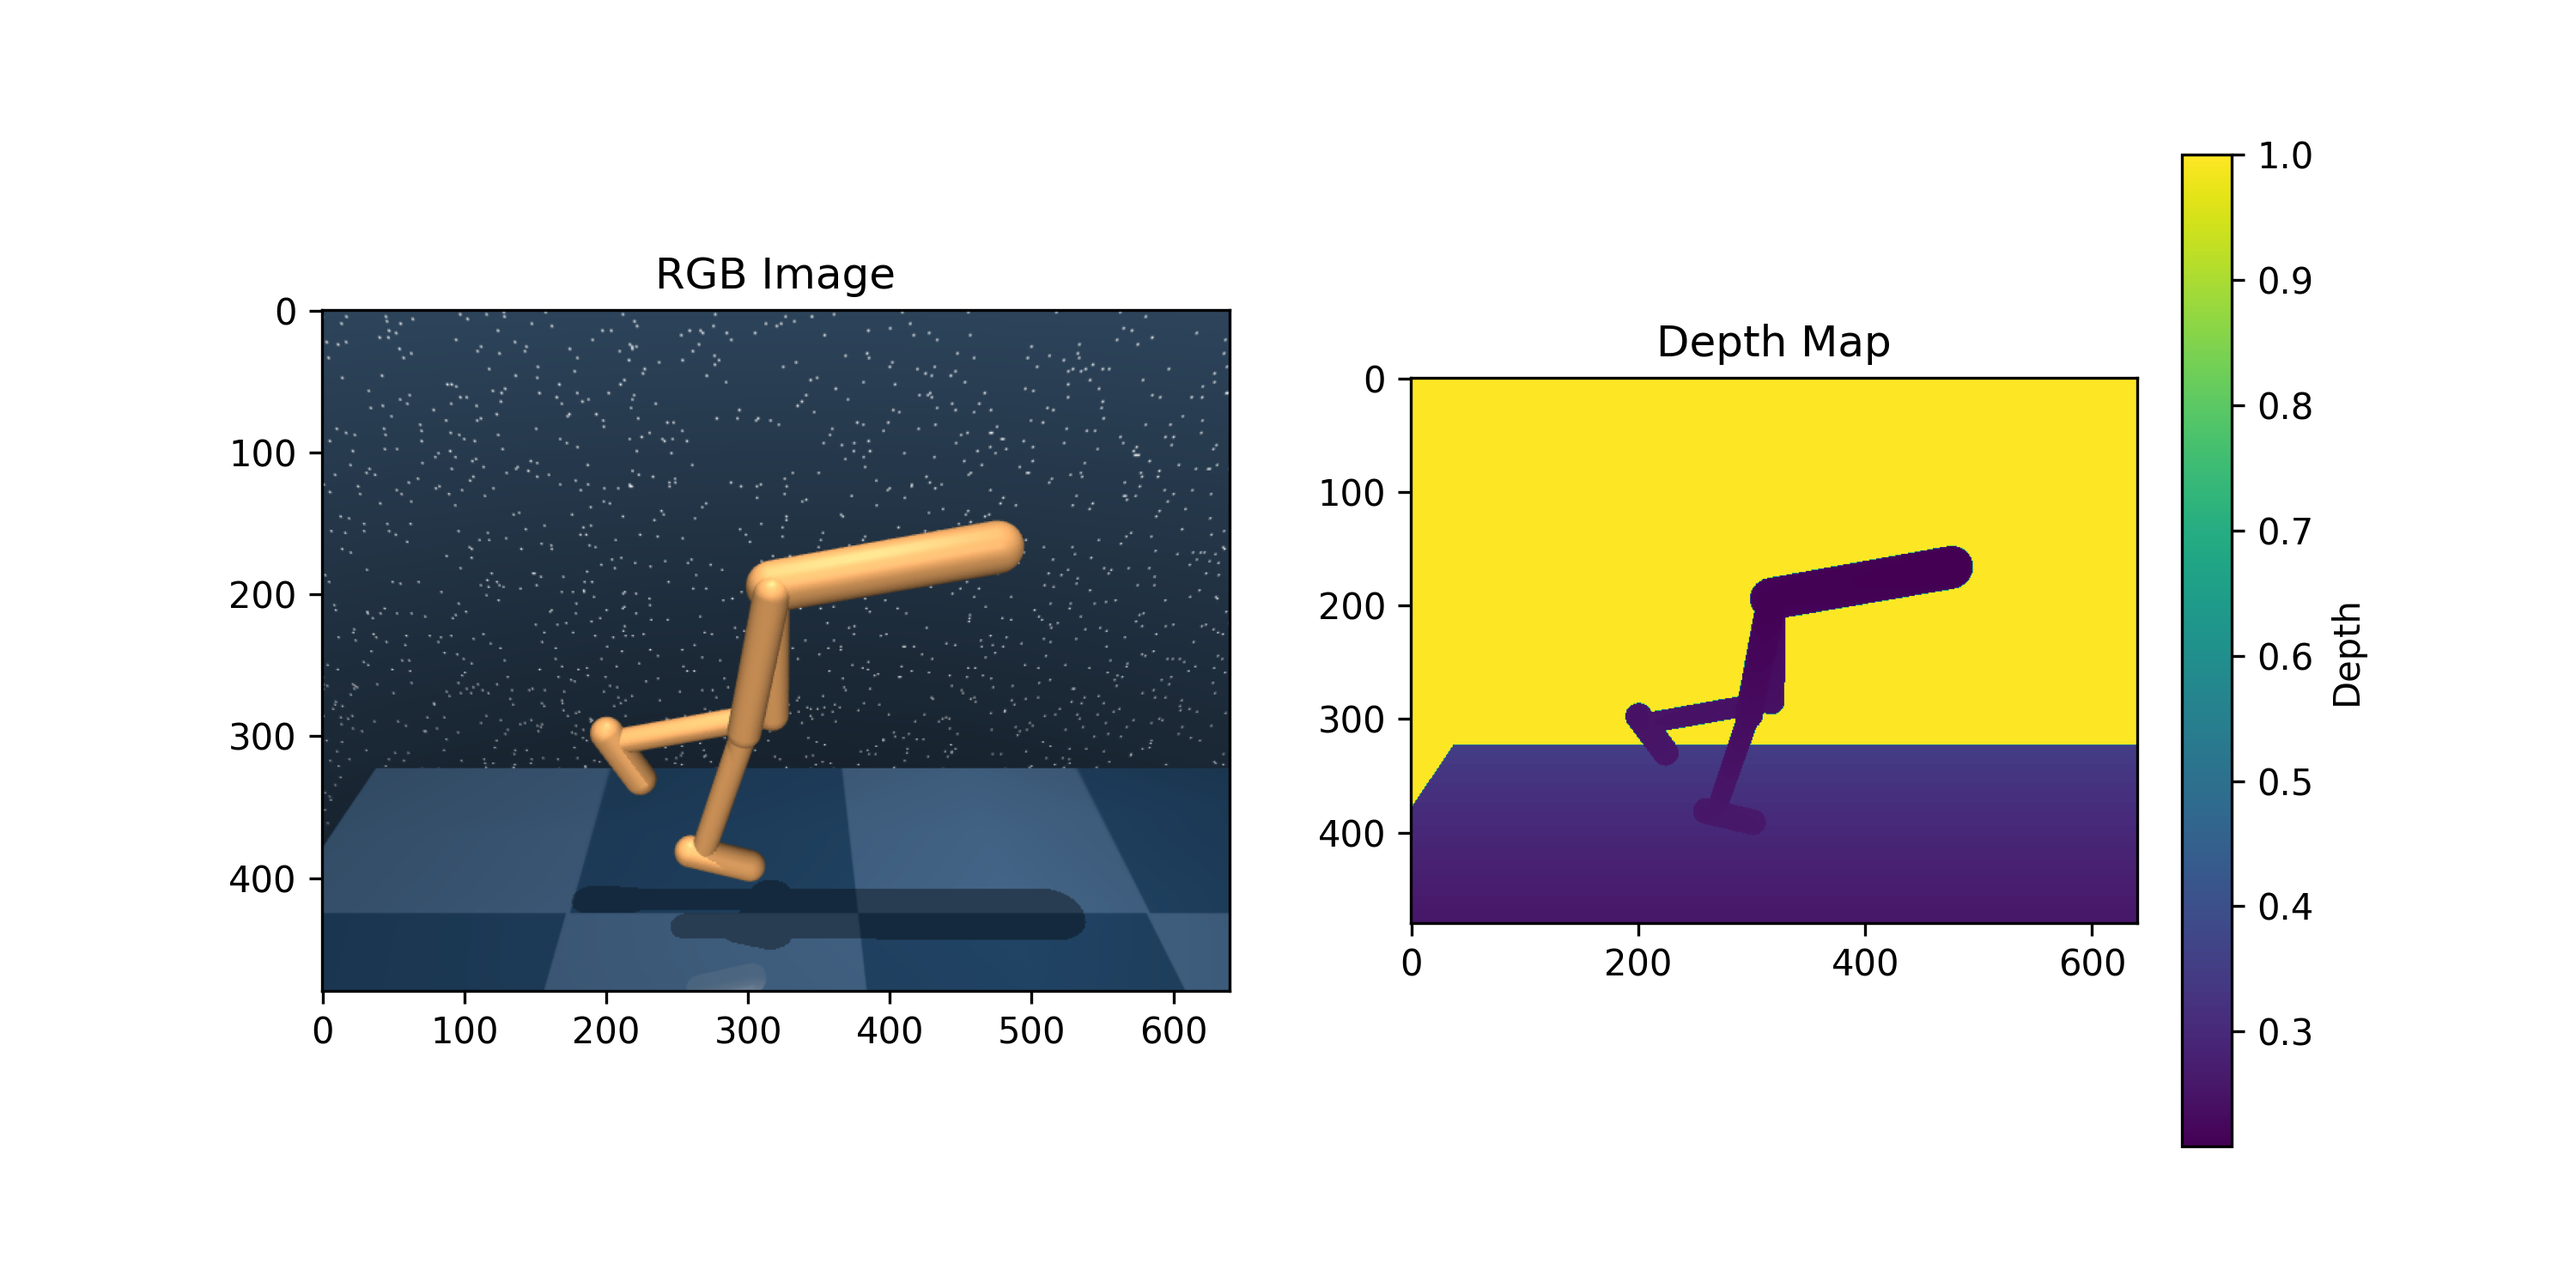
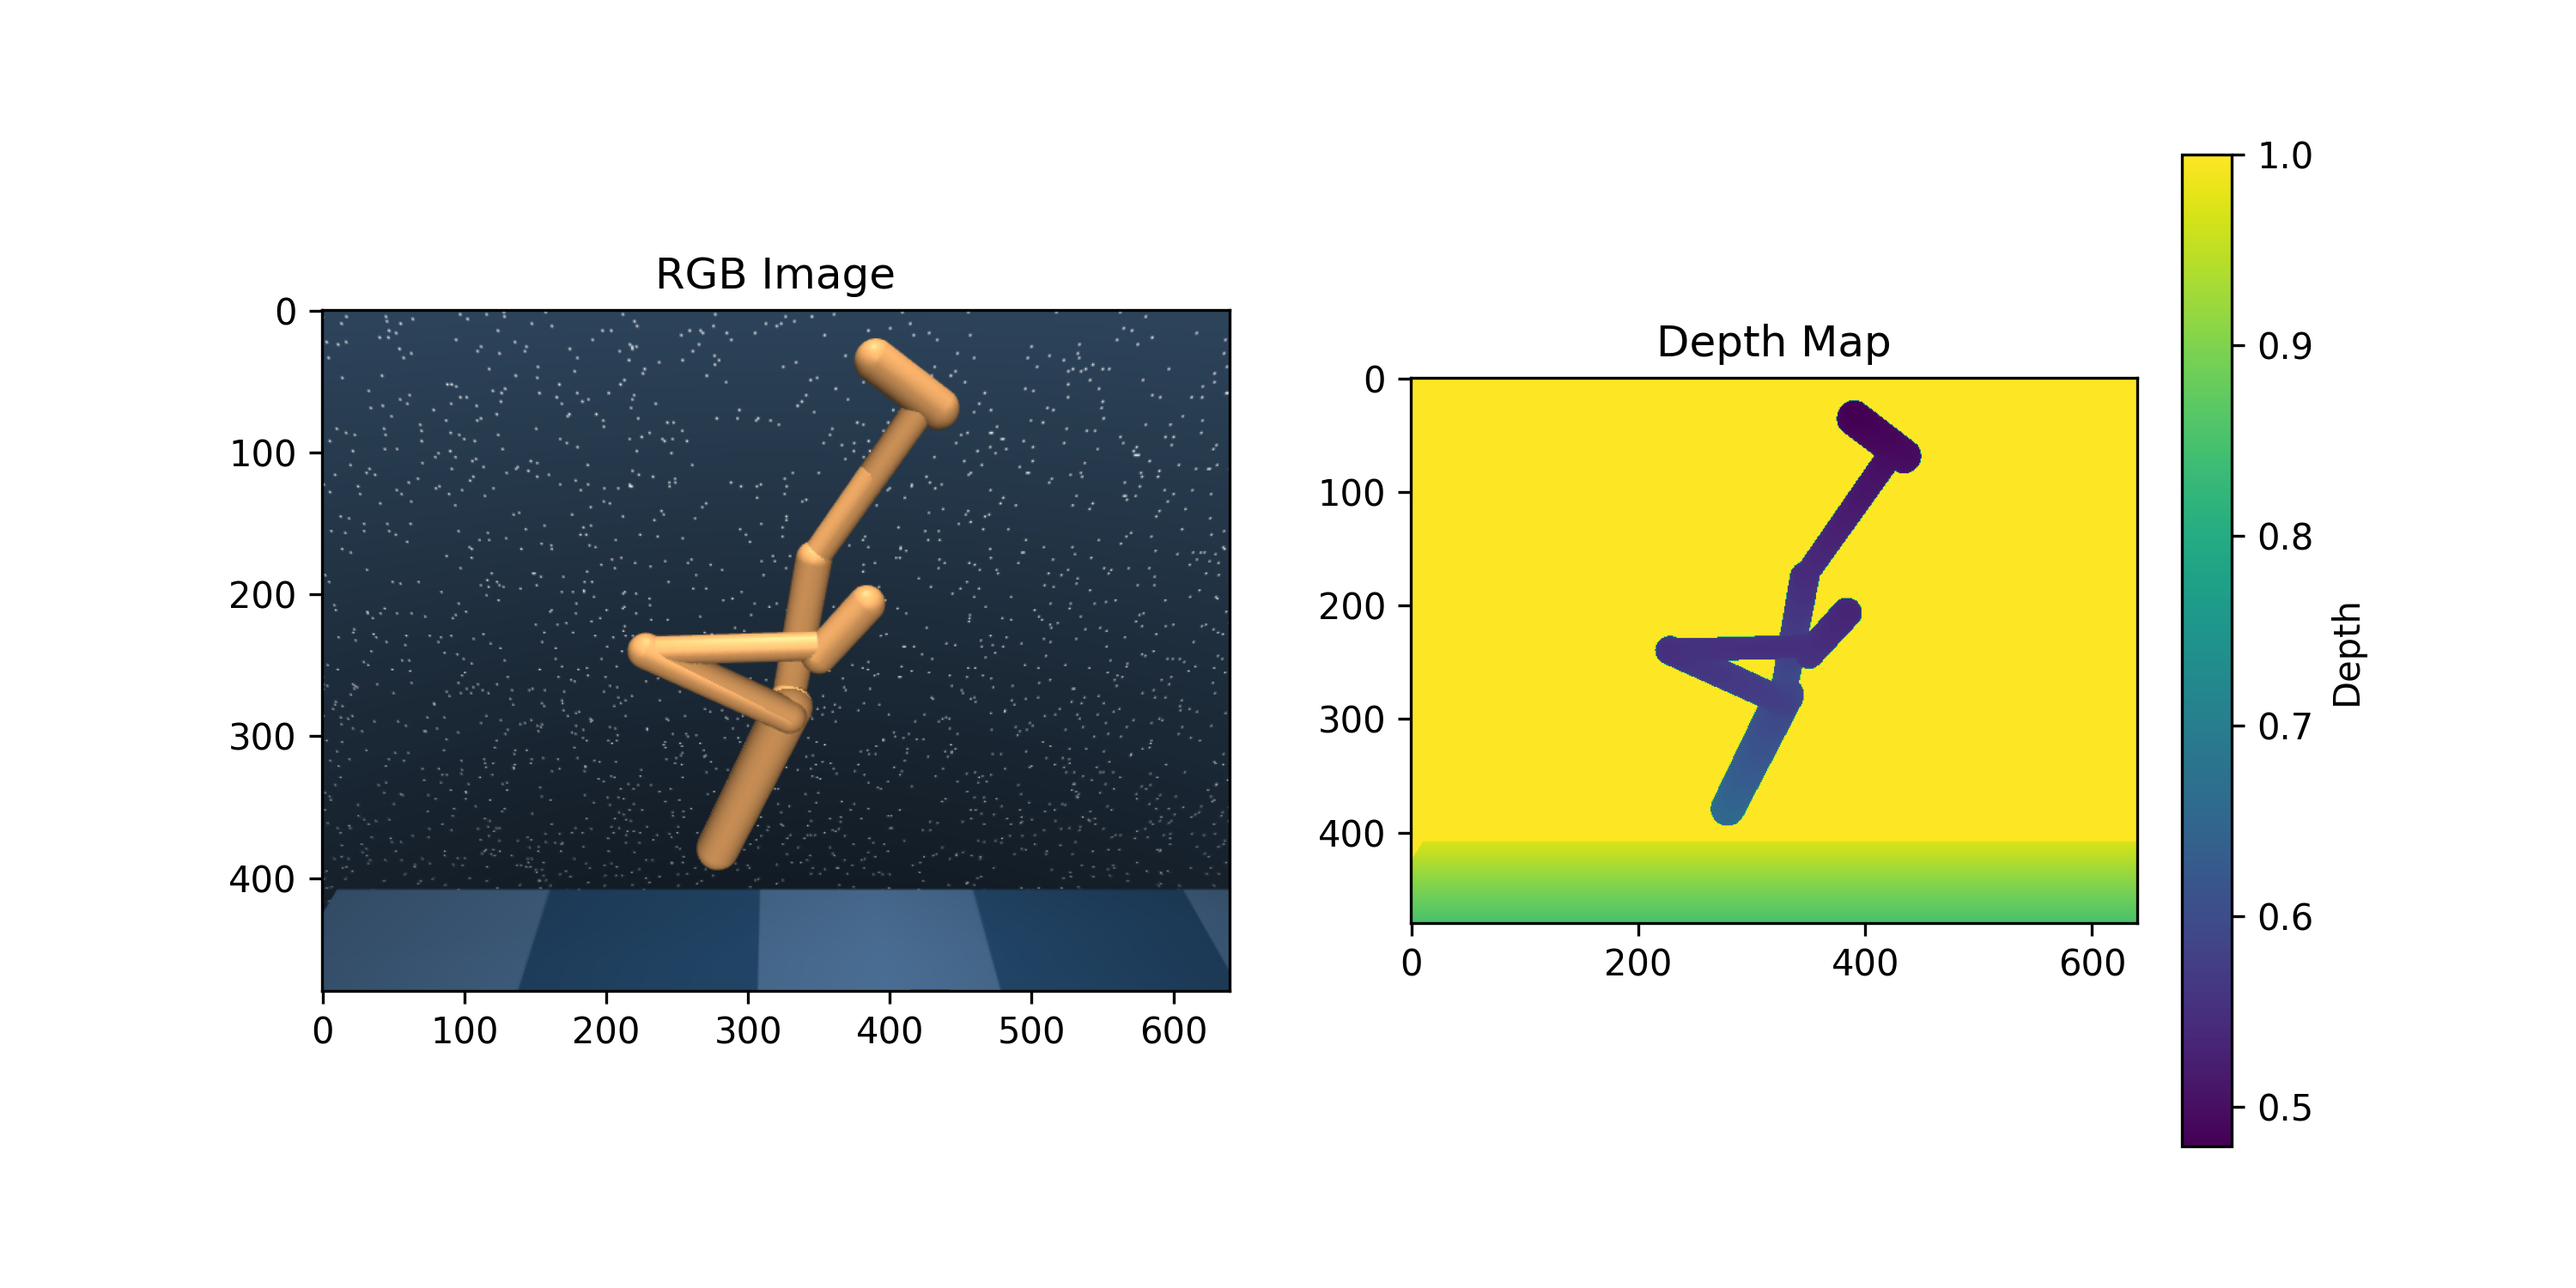
Auto commit

diff --git a/third_test_point_cloud.py b/third_test_point_cloud.py
@@ -18,7 +18,7 @@ print(np.max(depth_map))
 print(np.min(depth_map))
 print(np.mean(depth_map))
 
-min_depth, max_depth = 0, 10
+min_depth, max_depth = 0, 4
 clipped_depth = np.clip(depth_map, min_depth, max_depth)
 normalized_depth = (clipped_depth - min_depth) / (max_depth - min_depth)
 depth_map = normalized_depth
